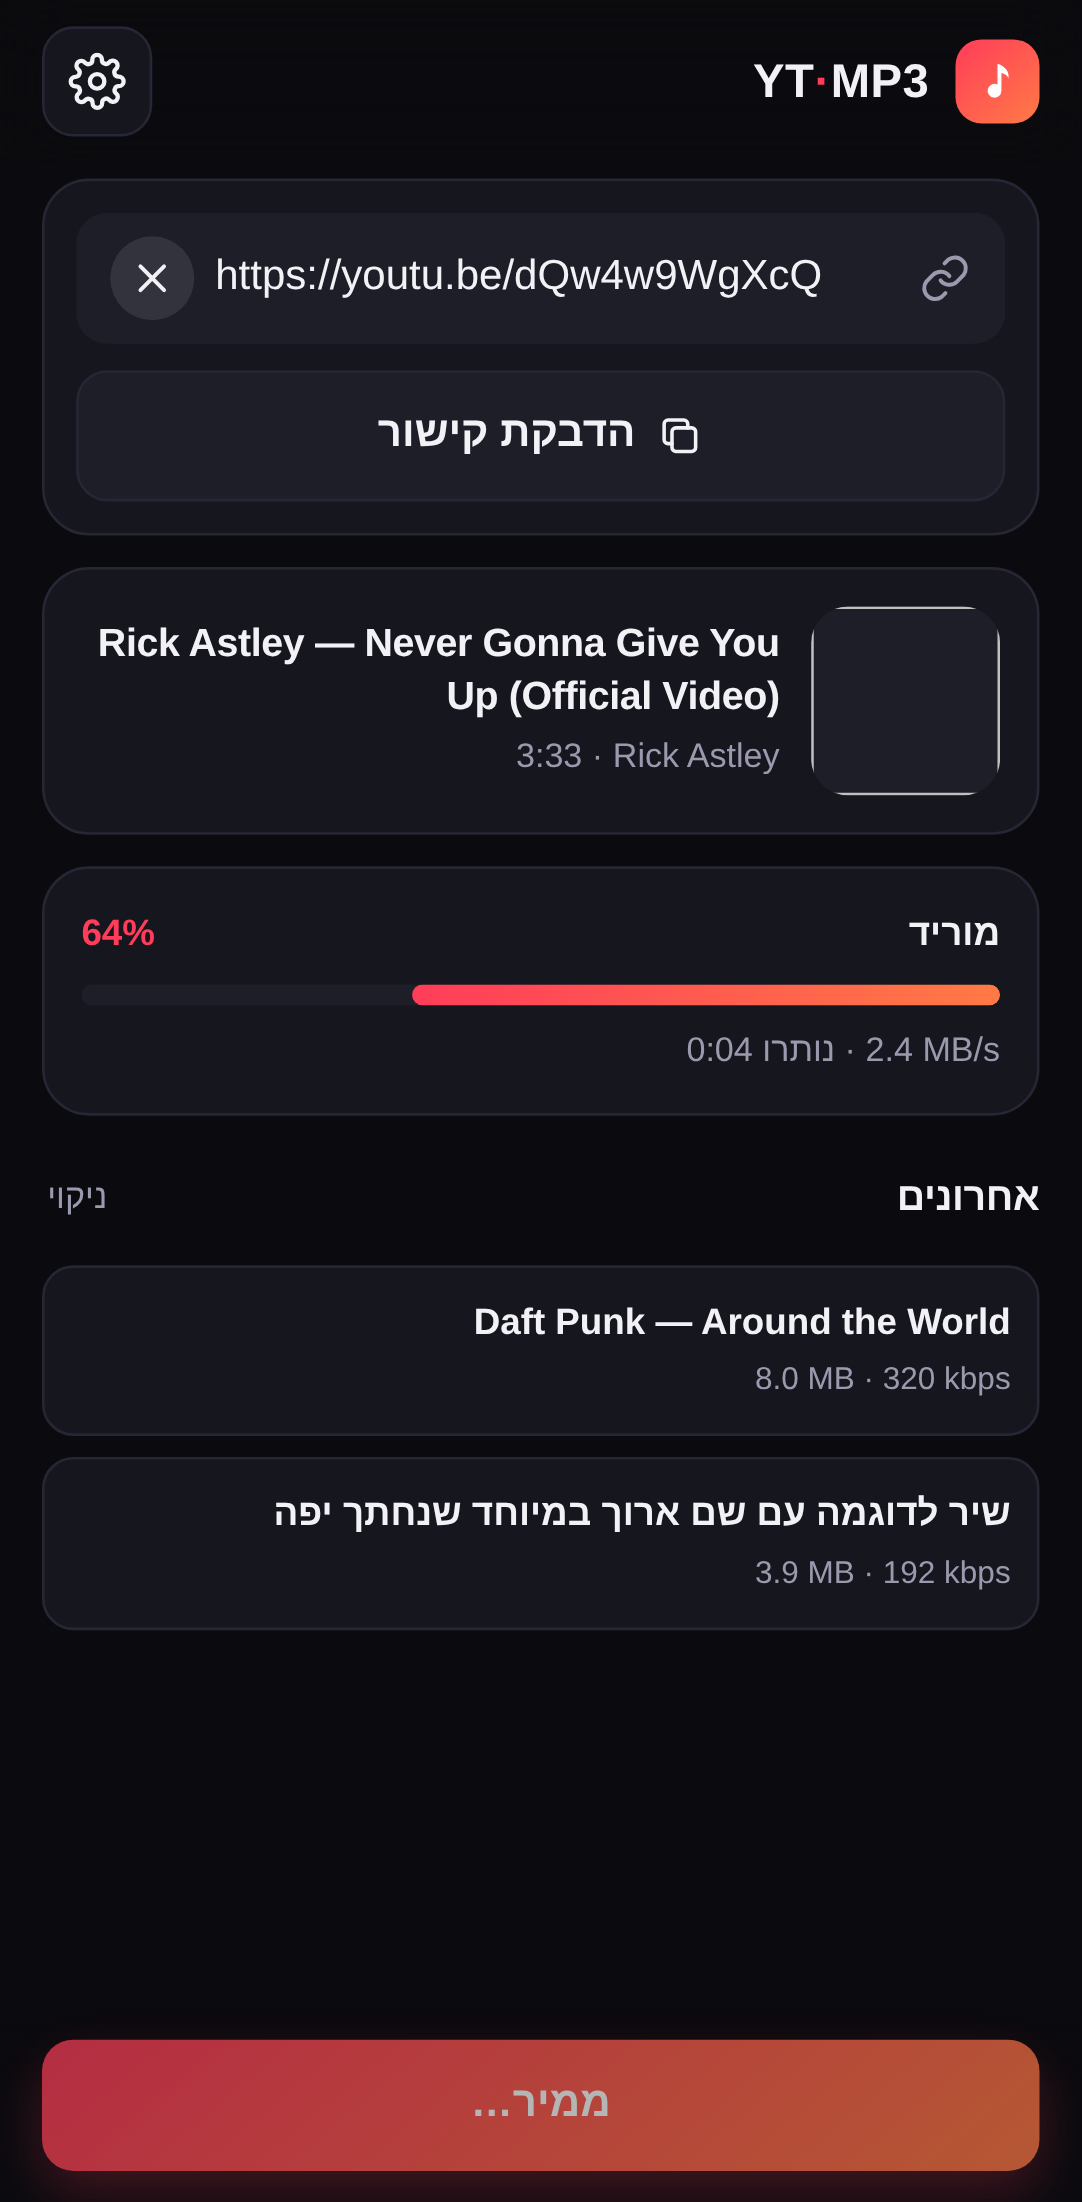
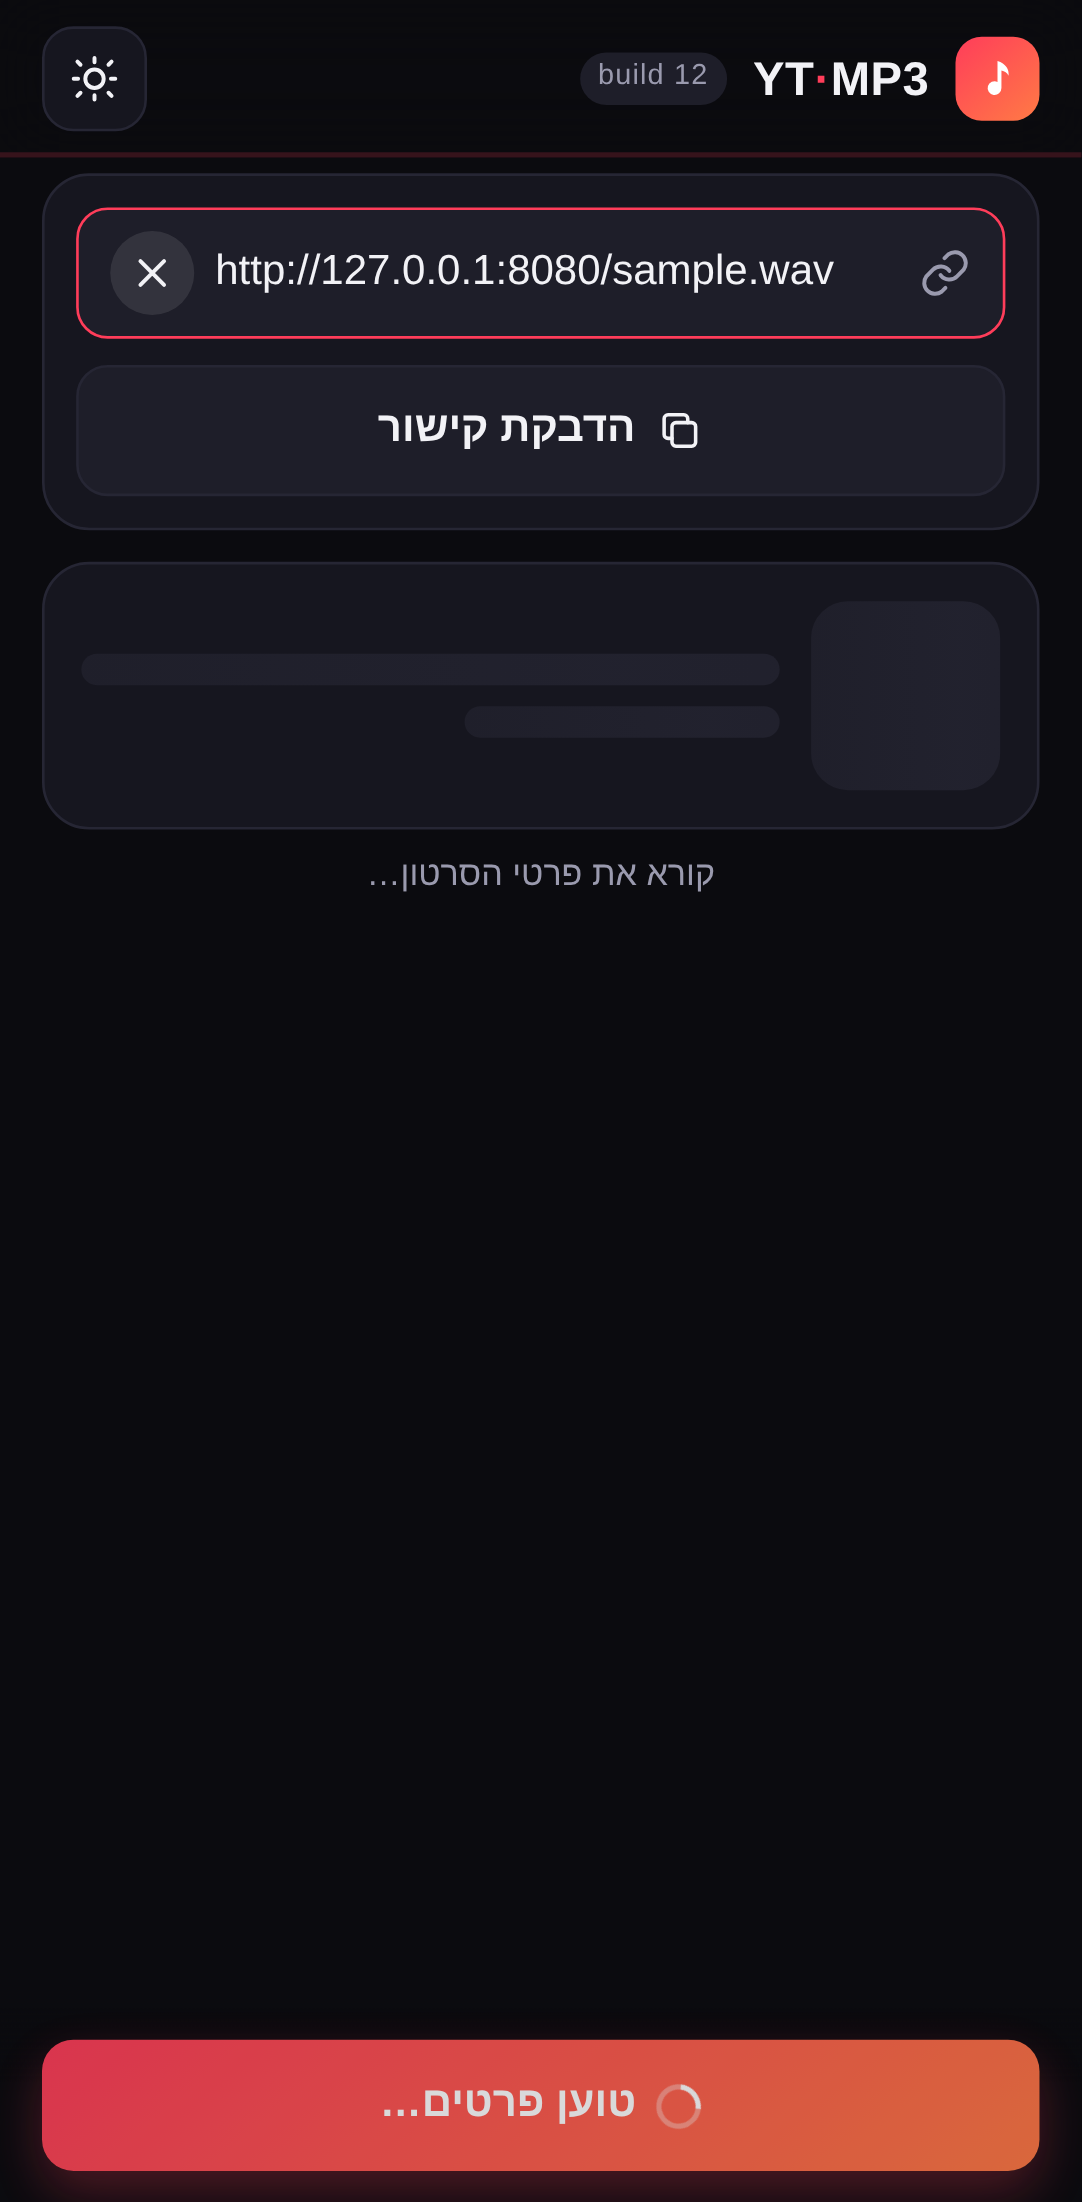
Keep quality reachable, make waiting legible, and add a theme toggle
The bitrate chips were tied to the ready and error states, so they vanished
the moment a download finished and did not come back for the next video.
They now stay for as long as a video is on screen, lock while a conversion
runs, and changing the bitrate after a download returns the button to
"download", since the finished file is at the previous rate.

Waiting had only the skeleton to show for itself. There are now three
signals for one state: a hairline that sweeps under the header, a spinner in
the primary button, and a line naming what is being waited on.

Dark and light are both selectable rather than dictated by the system.
Dark remains the base, the system still decides when nothing is stored, and
an explicit choice wins in both directions. The choice is applied inline in
the head so the first paint is already correct.

Claude-Session: https://claude.ai/code/session_01S3WUYMwYECv2DU9D2bYLBs

diff --git a/web/js/app.js b/web/js/app.js
@@ -2,7 +2,7 @@
 (() => {
   'use strict';
 
-  const BUILD = '12';   // must match the tag in sw.js and the ?v= on the assets
+  const BUILD = '13';   // must match the tag in sw.js and the ?v= on the assets
 
   const $ = (id) => document.getElementById(id);
 
@@ -17,11 +17,13 @@
     errorCard: $('error-card'), errorText: $('error-text'), errorReason: $('error-reason'),
     empty: $('empty'), history: $('history'), histList: $('hist-list'),
     clearHistory: $('btn-clear-history'), build: $('build'),
+    theme: $('btn-theme'), topLoad: $('topbar-load'),
+    spinner: $('btn-spinner'), loadingNote: $('loading-note'),
     main: $('btn-main'), mainLabel: $('btn-main-label'),
     toast: $('toast'),
   };
 
-  const LS = { bitrate: 'ytmp3.bitrate', history: 'ytmp3.history' };
+  const LS = { bitrate: 'ytmp3.bitrate', history: 'ytmp3.history', theme: 'ytmp3.theme' };
 
   // Deployed backend, used if the same-origin route is not answering. Keeping it
   // here means the app still works when only one of the two paths is healthy.
@@ -147,6 +149,31 @@
     return false;
   }
 
+  /* ---------- theme ---------- */
+
+  function applyTheme(mode) {
+    const root = document.documentElement;
+    if (mode) root.setAttribute('data-theme', mode);
+    else root.removeAttribute('data-theme');   // no choice stored: follow the system
+
+    const dark = mode ? mode === 'dark' : matchMedia('(prefers-color-scheme: dark)').matches;
+    // The browser chrome reads a single tag, so replace the media-split pair.
+    for (const tag of document.querySelectorAll('meta[name="theme-color"]')) tag.remove();
+    const meta = document.createElement('meta');
+    meta.name = 'theme-color';
+    meta.content = dark ? '#0b0b0f' : '#f6f6f8';
+    document.head.appendChild(meta);
+  }
+
+  function toggleTheme() {
+    const stored = localStorage.getItem(LS.theme);
+    const dark = stored ? stored === 'dark' : matchMedia('(prefers-color-scheme: dark)').matches;
+    const next = dark ? 'light' : 'dark';
+    localStorage.setItem(LS.theme, next);
+    applyTheme(next);
+    buzz();
+  }
+
   /* ---------- rendering ---------- */
 
   el.thumb.addEventListener('error', () => { el.thumb.hidden = true; });
@@ -154,9 +181,15 @@
   function render() {
     const p = state.phase;
 
+    const busy = p === 'loading' || p === 'working';
+
     el.previewLoading.hidden = p !== 'loading';
+    el.loadingNote.hidden = p !== 'loading';
     el.preview.hidden = !(state.info && p !== 'loading');
-    el.qualityCard.hidden = !(state.info && (p === 'ready' || p === 'error'));
+    // Quality stays reachable for as long as there is a video on screen —
+    // including after a download, so another bitrate is one tap away.
+    el.qualityCard.hidden = !(state.info && p !== 'loading');
+    el.chips.classList.toggle('is-locked', p === 'working');
     el.progressCard.hidden = p !== 'working';
     el.doneCard.hidden = p !== 'done';
     el.errorCard.hidden = p !== 'error';
@@ -175,8 +208,13 @@
     }[p];
 
     el.mainLabel.textContent = label;
-    el.main.disabled = p === 'loading' || p === 'working' || (p === 'idle' && !isUrl(el.url.value.trim()));
+    el.main.disabled = busy || (p === 'idle' && !isUrl(el.url.value.trim()));
     if (p === 'idle' && isUrl(el.url.value.trim())) el.mainLabel.textContent = 'הורדה כ‑MP3';
+
+    // Three signals for one state, because waiting is the moment the app feels broken.
+    el.topLoad.hidden = !busy;
+    el.spinner.hidden = !busy;
+    el.main.classList.toggle('is-busy', busy);
   }
 
   function showInfo(info) {
@@ -539,6 +577,12 @@
     }
     el.qualityHint.textContent = ltr(`${state.bitrate} kbps`);
     buzz();
+
+    // The finished file is at the old bitrate, so offer the download again.
+    if (state.phase === 'done') {
+      state.phase = 'ready';
+      render();
+    }
   });
 
   el.main.addEventListener('click', () => {
@@ -549,6 +593,8 @@
     else el.url.focus();
   });
 
+  el.theme.addEventListener('click', toggleTheme);
+
   el.clearHistory.addEventListener('click', () => {
     localStorage.removeItem(LS.history);
     render();
@@ -558,6 +604,8 @@
   /* ---------- boot ---------- */
 
   function init() {
+    applyTheme(localStorage.getItem(LS.theme));
+
     for (const c of el.chips.children) {
       const on = c.dataset.v === state.bitrate;
       c.classList.toggle('is-on', on);

diff --git a/web/css/app.css b/web/css/app.css
@@ -27,17 +27,30 @@
   --ease: cubic-bezier(.22, .61, .36, 1);
 }
 
+/* Dark is the base. The system decides unless the reader picked a side, and
+   an explicit choice wins in both directions — hence the same palette twice. */
 @media (prefers-color-scheme: light) {
-  :root {
-    --bg: #f6f6f8;
-    --bg-soft: #ffffff;
-    --surface: #ffffff;
-    --surface-2: #f0f0f4;
-    --line: #e4e4ec;
-    --text: #14141a;
-    --muted: #6c6c80;
-    --shadow: 0 6px 22px rgba(20, 20, 40, .08);
+  :root:not([data-theme="dark"]) {
+  --bg: #f6f6f8;
+  --bg-soft: #ffffff;
+  --surface: #ffffff;
+  --surface-2: #f0f0f4;
+  --line: #e4e4ec;
+  --text: #14141a;
+  --muted: #6c6c80;
+  --shadow: 0 6px 22px rgba(20, 20, 40, .08);
   }
+}
+
+:root[data-theme="light"] {
+  --bg: #f6f6f8;
+  --bg-soft: #ffffff;
+  --surface: #ffffff;
+  --surface-2: #f0f0f4;
+  --line: #e4e4ec;
+  --text: #14141a;
+  --muted: #6c6c80;
+  --shadow: 0 6px 22px rgba(20, 20, 40, .08);
 }
 
 * { box-sizing: border-box; }
@@ -484,4 +497,77 @@ p { margin: 0; }
   text-align: left;
   word-break: break-word;
   color: color-mix(in srgb, var(--err) 75%, var(--text));
+}
+
+
+/* ---------- theme toggle ---------- */
+
+.theme-btn {
+  width: 40px; height: 40px;
+  flex: none;
+  display: grid; place-items: center;
+  border: 1px solid var(--line);
+  border-radius: 12px;
+  background: var(--surface);
+  color: var(--text);
+  cursor: pointer;
+  transition: transform .12s var(--ease);
+}
+.theme-btn:active { transform: scale(.92); }
+/* one button, two glyphs: show the theme it switches to */
+.theme-btn .to-dark { display: none; }
+:root[data-theme="dark"] .theme-btn .to-dark,
+.theme-btn .to-light { display: block; }
+:root[data-theme="dark"] .theme-btn .to-light { display: none; }
+@media (prefers-color-scheme: dark) {
+  :root:not([data-theme="light"]) .theme-btn .to-light { display: none; }
+  :root:not([data-theme="light"]) .theme-btn .to-dark { display: block; }
+}
+
+/* ---------- work in progress ---------- */
+
+/* a hairline that runs across the top whenever the app is waiting on the network */
+.topbar-load {
+  position: absolute;
+  inset-inline: 0;
+  bottom: 0;
+  height: 2.5px;
+  overflow: hidden;
+  background: color-mix(in srgb, var(--accent) 18%, transparent);
+}
+.topbar-load::after {
+  content: "";
+  position: absolute;
+  inset-block: 0;
+  width: 45%;
+  border-radius: 99px;
+  background: linear-gradient(90deg, var(--accent), var(--accent-2));
+  animation: sweep 1.15s var(--ease) infinite;
+}
+@keyframes sweep {
+  0%   { transform: translateX(-120%); }
+  100% { transform: translateX(320%); }
+}
+
+.spinner {
+  width: 17px; height: 17px;
+  flex: none;
+  border-radius: 50%;
+  border: 2.5px solid color-mix(in srgb, var(--accent-ink) 35%, transparent);
+  border-top-color: var(--accent-ink);
+  animation: spin .7s linear infinite;
+}
+@keyframes spin { to { transform: rotate(360deg); } }
+
+/* the busy state should read as busy, not as disabled */
+.btn.is-busy { opacity: 1; }
+.btn.is-busy:disabled { opacity: .85; }
+
+.chips.is-locked { opacity: .5; pointer-events: none; }
+
+.loading-note {
+  margin-top: -4px;
+  text-align: center;
+  font-size: 13px;
+  color: var(--muted);
 }

diff --git a/web/index.html b/web/index.html
@@ -15,7 +15,15 @@
 <link rel="manifest" href="./manifest.webmanifest">
 <link rel="icon" href="./icons/favicon.svg" type="image/svg+xml">
 <link rel="apple-touch-icon" href="./icons/icon-192.png">
-<link rel="stylesheet" href="./css/app.css?v=12">
+<link rel="stylesheet" href="./css/app.css?v=13">
+<script>
+  // Applied before first paint: the deferred bundle would arrive a frame late,
+  // and a flash of the wrong theme is the one bug a theme toggle must not have.
+  try {
+    var t = localStorage.getItem('ytmp3.theme');
+    if (t) document.documentElement.setAttribute('data-theme', t);
+  } catch (e) { /* storage can be unavailable; the system default still applies */ }
+</script>
 </head>
 <body>
 
@@ -29,6 +37,11 @@
       <h1>YT<span class="dot">·</span>MP3</h1>
       <span class="build-tag" id="build"></span>
     </div>
+    <button class="theme-btn" id="btn-theme" type="button" aria-label="מצב תצוגה">
+      <svg class="to-dark" viewBox="0 0 24 24" width="20" height="20" fill="none" stroke="currentColor" stroke-width="1.8" stroke-linecap="round" stroke-linejoin="round"><circle cx="12" cy="12" r="4.2"/><path d="M12 2.5v2M12 19.5v2M4.2 4.2l1.4 1.4M18.4 18.4l1.4 1.4M2.5 12h2M19.5 12h2M4.2 19.8l1.4-1.4M18.4 5.6l1.4-1.4"/></svg>
+      <svg class="to-light" viewBox="0 0 24 24" width="20" height="20" fill="none" stroke="currentColor" stroke-width="1.8" stroke-linecap="round" stroke-linejoin="round"><path d="M20 14.5A8.5 8.5 0 0 1 9.5 4a8.5 8.5 0 1 0 10.5 10.5Z"/></svg>
+    </button>
+    <div class="topbar-load" id="topbar-load" hidden></div>
   </header>
 
   <main class="content" id="content">
@@ -57,6 +70,7 @@
       <div class="sk-thumb"></div>
       <div class="sk-lines"><span class="sk-line"></span><span class="sk-line short"></span></div>
     </section>
+    <p class="loading-note" id="loading-note" hidden>קורא את פרטי הסרטון…</p>
 
     <!-- תצוגה מקדימה -->
     <section class="card preview" id="preview" hidden>
@@ -136,6 +150,7 @@
   <!-- פעולה ראשית -->
   <div class="action-bar" id="action-bar">
     <button class="btn btn-primary" id="btn-main" type="button" disabled>
+      <span class="spinner" id="btn-spinner" hidden aria-hidden="true"></span>
       <span class="btn-label" id="btn-main-label">הדביקו קישור</span>
     </button>
   </div>
@@ -144,6 +159,6 @@
 
 <div class="toast" id="toast" role="status" aria-live="polite" hidden></div>
 
-<script src="./js/app.js?v=12" defer></script>
+<script src="./js/app.js?v=13" defer></script>
 </body>
 </html>

diff --git a/web/sw.js b/web/sw.js
@@ -4,7 +4,7 @@
    tags the asset URLs, so a new release can never be served out of an old
    one. Every shell fetch bypasses the HTTP cache as well — without that, a
    fresh install would happily re-cache the previous build's files. */
-const BUILD = '12';
+const BUILD = '13';
 const CACHE = `ytmp3-v${BUILD}`;
 
 const SHELL = [
